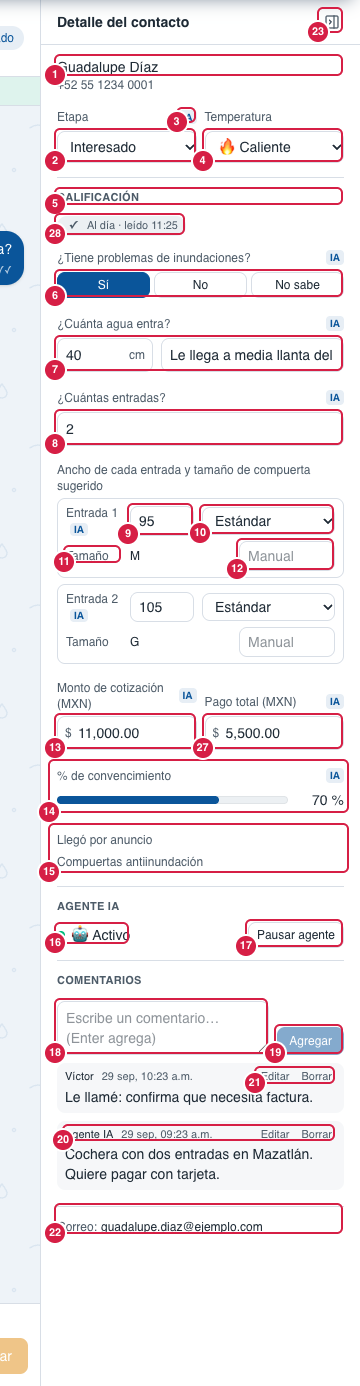
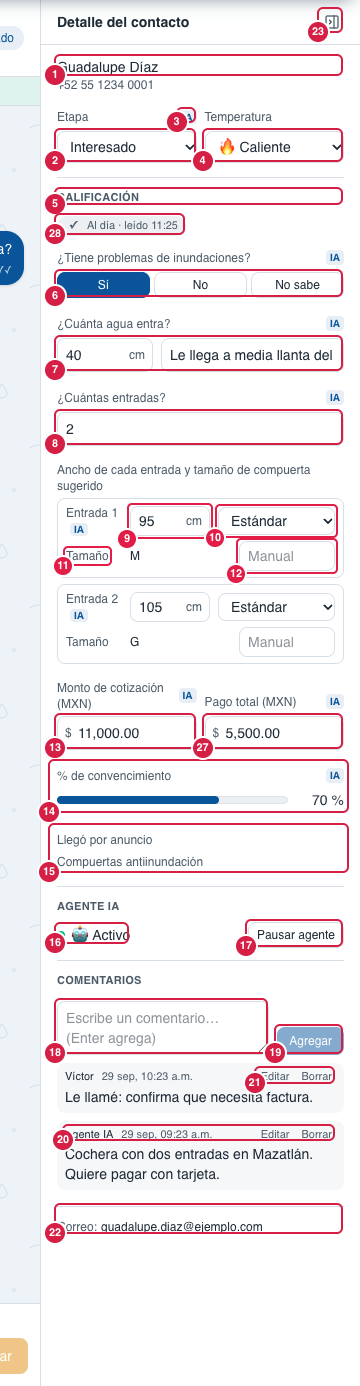
feat(detalle): el ancho de cada entrada siempre en centímetros, con «cm» a la vista
Pedido del dueño (2-oct-2026): «Entrada 1: 175» no decía qué medida era. Sin selector:
la unidad la define lo que dijo el cliente y lo interpreta el Agente IA.

- Detalle: «cm» a la derecha del ancho, como «¿Cuánta agua entra?».
- Agente IA y lector: misma regla (ANCHO_EN_CM) — metros × 100 (1.75 = 175), pulgadas
  × 2.54; un número sin unidad de 10 o más ya son centímetros (230 = 230 cm, nunca metros).
- parseDetalle: un ancho < 10 son metros sin convertir (1.75 → 175); antes quedaban 2 cm.
- Mapa: Detalle › 9 y capturas 05-detalle y 02-bandeja (bloque de entradas, sin renumerar);
  docs/agente-ia.md (sección nueva).

diff --git a/lib/ai/runtime/tools.ts b/lib/ai/runtime/tools.ts
@@ -58,12 +58,17 @@ export const avisoVendedorSchema = z.object({
 // los campos y, sin null, los rellenaba con 0, "" o "no_sabe" (en producción, 46 de 50
 // niveles de agua del agente eran "0 cm"). parseDetalle ignora los null.
 const SIN_DATO = " (null si el cliente no lo dijo)";
+// Ancho de las entradas (2-oct-2026, dueño): SIEMPRE en centímetros (los rangos de Tallas y medidas son
+// en cm y el Detalle lo muestra con «cm»). El modelo convierte lo que dijo el cliente; un número sin
+// unidad de 10 o más ya son centímetros, nunca metros. Lo usan el agente y el lector (lector-core.ts).
+export const ANCHO_EN_CM =
+  "en CENTÍMETROS. Convierte lo que dijo el cliente: metros × 100 (1.75 m, «1.75» o «1 metro 75» = 175), pulgadas × 2.54 (70 pulgadas = 178); un número sin unidad de 10 o más ya son centímetros (230 = 230 cm, nunca metros)";
 export const actualizarDetalleSchema = z.object({
   tiene_inundaciones: z.enum(["si", "no", "no_sabe"]).nullable().optional().describe(`Si el cliente dijo que se le mete el agua: si, no o no_sabe (solo si dijo que no sabe)${SIN_DATO}`),
   nivel_agua_cm: z.number().nullable().optional().describe(`Hasta dónde llega el agua, en centímetros (0.5 m = 50)${SIN_DATO}`),
   nivel_agua_texto: z.string().nullable().optional().describe(`Cómo lo describió el cliente, corto (p. ej. "le llega a la rodilla")${SIN_DATO}`),
   num_entradas: z.number().nullable().optional().describe(`Cuántas entradas quiere proteger${SIN_DATO}`),
-  anchos_cm: z.array(z.number()).nullable().optional().describe(`Ancho de cada entrada en centímetros, en orden (uno por entrada)${SIN_DATO}`),
+  anchos_cm: z.array(z.number()).nullable().optional().describe(`Ancho de cada entrada ${ANCHO_EN_CM}, en orden (uno por entrada)${SIN_DATO}`),
   porcentaje_convencimiento: z.number().nullable().optional().describe("Qué tan convencido está de comprar: 0 a 100, de 10 en 10"),
   comentario: z.string().nullable().optional().describe(`Un dato útil NUEVO que dio el cliente, en una frase (p. ej. "tiene cochera con desnivel")${SIN_DATO}`),
 });
@@ -105,7 +110,9 @@ export function parseDetalle(input: unknown): DetalleIa | null {
   const entradas = num(raw.num_entradas);
   if (entradas !== null && Number.isInteger(entradas) && entradas >= 1 && entradas <= 50) out.numEntradas = entradas;
   if (Array.isArray(raw.anchos_cm)) {
-    const anchos = raw.anchos_cm.map(num).map((a) => (a === null ? null : Math.round(a)));
+    // Red de seguridad: ninguna entrada mide menos de 10 cm, así que un valor así son METROS que el
+    // modelo no convirtió (1.75 → 175 cm). Antes se redondeaba y quedaban 2 cm.
+    const anchos = raw.anchos_cm.map(num).map((a) => (a === null ? null : Math.round(a < 10 ? a * 100 : a)));
     // Un ancho inválido invalida la lista (se perdería a qué entrada va cada uno).
     if (anchos.length > 0 && anchos.length <= 50 && anchos.every((a): a is number => a !== null && a >= 1 && a <= 1000)) out.anchosCm = anchos;
   }

diff --git a/lib/ai/runtime/lector-core.ts b/lib/ai/runtime/lector-core.ts
@@ -19,7 +19,7 @@ import { sortStages, stagesInstructions, type FunnelStage } from "@/lib/contacts
 import type { MessageAttachment } from "@/lib/db/schema";
 import type { ToolCallOutput } from "@/lib/ai/types";
 import { clip, messageText, neutralizeCrmHeader, type ThreadMessage } from "./transcript";
-import { parseDetalle, type DetalleIa } from "./tools";
+import { ANCHO_EN_CM, parseDetalle, type DetalleIa } from "./tools";
 
 // Siempre Luna (decisión del dueño): lee y llena, no vende.
 export const LECTOR_MODEL_ID = "gpt-5.6-luna";
@@ -76,7 +76,7 @@ CÓMO LEER
 CAMPOS
 - tiene_inundaciones: si | no | no_sabe (si se le mete el agua). "no_sabe" solo si el cliente dijo que no sabe.
 - nivel_agua_cm: hasta dónde llega el agua, en centímetros (medio metro = 50). nivel_agua_texto: cómo lo dijo el cliente, corto.
-- num_entradas y anchos_cm: cuántas entradas va a proteger y el ancho de cada una en centímetros, en orden (uno por entrada). Si cambió cuántas quiere (p. ej. de 2 a 1), manda lo último.
+- num_entradas y anchos_cm: cuántas entradas va a proteger y el ancho de cada una ${ANCHO_EN_CM}; en orden (uno por entrada). Si cambió cuántas quiere (p. ej. de 2 a 1), manda lo último.
 - monto_cotizacion: total en pesos de lo que el CLIENTE eligió comprar al final, con los precios que la empresa le dio en el chat. No es lo primero que se le cotizó: si se le cotizaron 2 compuertas y eligió 1, es el total de 1 con el precio que ya se le dio. Si cambió lo que pide y el precio de lo nuevo nunca se dijo en el chat, NO lo calcules: no mandes monto y deja el comentario "El cliente cambió a …; falta confirmar el total".
 - pago_total: cuánto ha PAGADO el cliente en total (anticipo + resto, o el pago completo), según los comprobantes que mandó o los pagos que la empresa confirmó en el chat. Sin pagos, no lo mandes.
 - porcentaje_convencimiento: qué tan convencido está de comprar según cómo va la conversación, de 0 a 100 en pasos de 10.
@@ -96,7 +96,7 @@ export function lectorSchemaFor(stageKeys: readonly string[]) {
     nivel_agua_cm: z.number().nullable().optional().describe(`Hasta dónde llega el agua, en cm${sin}`),
     nivel_agua_texto: z.string().nullable().optional().describe(`Cómo lo describió el cliente, corto${sin}`),
     num_entradas: z.number().nullable().optional().describe(`Cuántas entradas va a proteger${sin}`),
-    anchos_cm: z.array(z.number()).nullable().optional().describe(`Ancho de cada entrada en cm, en orden${sin}`),
+    anchos_cm: z.array(z.number()).nullable().optional().describe(`Ancho de cada entrada ${ANCHO_EN_CM}, en orden${sin}`),
     monto_cotizacion: z.number().nullable().optional().describe(`Total en pesos de lo que el cliente eligió al final${sin}`),
     pago_total: z.number().nullable().optional().describe(`Lo que el cliente ya pagó en total, en pesos${sin}`),
     porcentaje_convencimiento: z.number().nullable().optional().describe("0 a 100, de 10 en 10"),

diff --git a/app/(app)/contactos/_components/contact-entradas.tsx b/app/(app)/contactos/_components/contact-entradas.tsx
@@ -133,21 +133,25 @@ function EntradaRow({
             </span>
           )}
         </span>
-        <input
-          aria-label={`Ancho de la entrada ${entrada.posicion} (cm)`}
-          inputMode="numeric"
-          placeholder="cm"
-          value={ancho}
-          onChange={(e) => {
-            setTyping((t) => (t.ancho ? t : { ...t, ancho: true }));
-            setAncho(e.target.value);
-          }}
-          onBlur={() => {
-            setTyping((t) => ({ ...t, ancho: false }));
-            saveAncho();
-          }}
-          className={`${field} w-16`}
-        />
+        {/* Siempre en centímetros, con la unidad a la vista (2-oct-2026, dueño): el Agente IA
+            convierte lo que dijo el cliente (1.75 m → 175 cm), como en «¿Cuánta agua entra?». */}
+        <div className="relative w-20 shrink-0">
+          <input
+            aria-label={`Ancho de la entrada ${entrada.posicion} (cm)`}
+            inputMode="numeric"
+            value={ancho}
+            onChange={(e) => {
+              setTyping((t) => (t.ancho ? t : { ...t, ancho: true }));
+              setAncho(e.target.value);
+            }}
+            onBlur={() => {
+              setTyping((t) => ({ ...t, ancho: false }));
+              saveAncho();
+            }}
+            className={`${field} w-full pr-8`}
+          />
+          <span className="pointer-events-none absolute right-2 top-1/2 -translate-y-1/2 text-xs text-muted-foreground">cm</span>
+        </div>
         <select
           aria-label={`Línea de la entrada ${entrada.posicion}`}
           value={requested("linea")}

diff --git a/lib/ai/runtime/tools.test.ts b/lib/ai/runtime/tools.test.ts
@@ -1,6 +1,6 @@
 import { describe, expect, it } from "vitest";
 import { defaultStages } from "@/lib/contacts/stages";
-import { buildAgentTools, parseDetalle, TOOL_ACTUALIZAR_DETALLE, TOOL_AVISO_VENDEDOR, TOOL_FIJAR_COTIZACION, TOOL_MOVER_ETAPA, validateToolCalls } from "./tools";
+import { actualizarDetalleSchema, buildAgentTools, parseDetalle, TOOL_ACTUALIZAR_DETALLE, TOOL_AVISO_VENDEDOR, TOOL_FIJAR_COTIZACION, TOOL_MOVER_ETAPA, validateToolCalls } from "./tools";
 
 const stages = defaultStages();
 
@@ -88,6 +88,9 @@ describe("herramientas del cerebro (Fase D reestructurada)", () => {
     expect(parseDetalle({ tiene_inundaciones: "tal vez", nivel_agua_cm: 5000, num_entradas: 1.5, anchos_cm: [90, 0], porcentaje_convencimiento: 30 })).toEqual({ porcentajeConvencimiento: 30 });
     expect(parseDetalle({})).toBeNull();
     expect(parseDetalle("basura")).toBeNull();
+    // Anchos SIEMPRE en cm (2-oct-2026): menos de 10 son metros que el modelo no convirtió.
+    expect(parseDetalle({ anchos_cm: [1.75, 2.3, 230, "0.9", 175] })).toEqual({ anchosCm: [175, 230, 230, 90, 175] });
+    expect(actualizarDetalleSchema.shape.anchos_cm.description).toContain("230 = 230 cm, nunca metros");
     const t = buildAgentTools(rows, stages);
     const { valid, ignored } = validateToolCalls(
       [

diff --git a/lib/ai/runtime/lector-core.test.ts b/lib/ai/runtime/lector-core.test.ts
@@ -8,6 +8,7 @@ import {
   evidenceFrom,
   isBackedAmount,
   LECTOR_TOOL,
+  lectorSchemaFor,
   lectorTime,
   parseLectorCalls,
   speakerOf,
@@ -39,6 +40,13 @@ describe("lector: cantidades del chat", () => {
     expect(isBackedAmount(6000, [5500, 500])).toBe(true); // compuerta + instalación
     expect(isBackedAmount(7000, [5500, 11000])).toBe(false);
     expect(isBackedAmount(27500, [5500])).toBe(false); // 5 × 5,500: más de 4 términos
+  });
+});
+
+describe("lector: anchos de las entradas", () => {
+  it("siempre en centímetros, con la misma regla que el Agente IA (2-oct-2026)", () => {
+    expect(buildLectorSystem(defaultStages())).toContain("230 = 230 cm, nunca metros");
+    expect(lectorSchemaFor(["inbox"]).shape.anchos_cm.description).toContain("metros × 100");
   });
 });
 

diff --git a/docs/agente-ia.md b/docs/agente-ia.md
@@ -918,6 +918,20 @@ adjunto al video y ya.
   vendedor contestó, lo pausaron) no sale nada. Si mientras esperaba le agregaron textos al workflow, el texto sale
   antes del primer paso. Si el archivo falla (ventana cerrada, rechazo), el aviso 🤖 lleva el texto que iba con él.
 
+## Ancho de las entradas siempre en centímetros (2-oct-2026, sin migración)
+
+Pedido del dueño (captura del Detalle con «Entrada 1: 175» sin unidad): que se vea qué medida es, definida por lo que dijo
+el cliente y lo que interpreta el Agente IA (no un selector), y que un número sin unidad como 230 sean centímetros, nunca
+metros.
+
+- **Detalle:** el ancho de cada entrada lleva «cm» a la derecha, como «¿Cuánta agua entra?». Se guarda siempre en cm
+  (`contact_entradas.ancho_cm`) porque los rangos de Tallas y medidas son en cm y de ahí sale el tamaño sugerido.
+- **Agente IA y lector** (misma frase, `ANCHO_EN_CM` en tools.ts; la usan `actualizar_detalle` y el lector en segundo
+  plano): convierte lo que dijo el cliente — metros × 100 (1.75 m, «1.75» o «1 metro 75» = 175), pulgadas × 2.54 (70
+  pulgadas = 178); un número sin unidad de 10 o más ya son centímetros (230 = 230 cm, nunca metros).
+- **Red de seguridad** (`parseDetalle`): un ancho de menos de 10 son metros que el modelo no convirtió (1.75 → 175 cm).
+  Antes se redondeaba y quedaban 2 cm. En producción (2-oct) los 46 anchos guardados ya estaban en cm (70–405).
+
 ## Fuera de alcance (próximos briefs)
 
 Follow-ups (Fase C), modelos por etapa y reenvío seguro (Fase E), y los pendientes A–F de la Fase D

diff --git a/docs/mapa-crm.md b/docs/mapa-crm.md
@@ -466,7 +466,7 @@ Ningún dato es definitivo: el agente corrige lo que el cliente aclare después.
 | 6 | **¿Tiene problemas de inundaciones?** | Sí · No · No sabe. | Todos |
 | 7 | **¿Cuánta agua entra?** | Centímetros y una descripción opcional. | Todos |
 | 8 | **¿Cuántas entradas?** | Número de entradas. Si lo bajas, pide confirmación porque borra anchos. | Todos |
-| 9 | **Ancho de la entrada (cm)** | Una fila por entrada. | Todos |
+| 9 | **Ancho de la entrada (cm)** | Una fila por entrada. Siempre en **centímetros**, con «cm» a la vista (como el agua, 7). El Agente IA convierte lo que dijo el cliente: 1.75 m → 175 cm, pulgadas × 2.54; un número sin unidad de 10 o más ya son centímetros (230 = 230 cm, nunca metros). | Todos |
 | 10 | **Línea** | Mini o Estándar. | Todos |
 | 11 | **Tamaño sugerido** | Lo calcula el CRM con [Tallas y medidas](#36-agente-ia). | Todos |
 | 12 | **Manual** | Tamaño escrito a mano; manda sobre el sugerido. | Todos |
